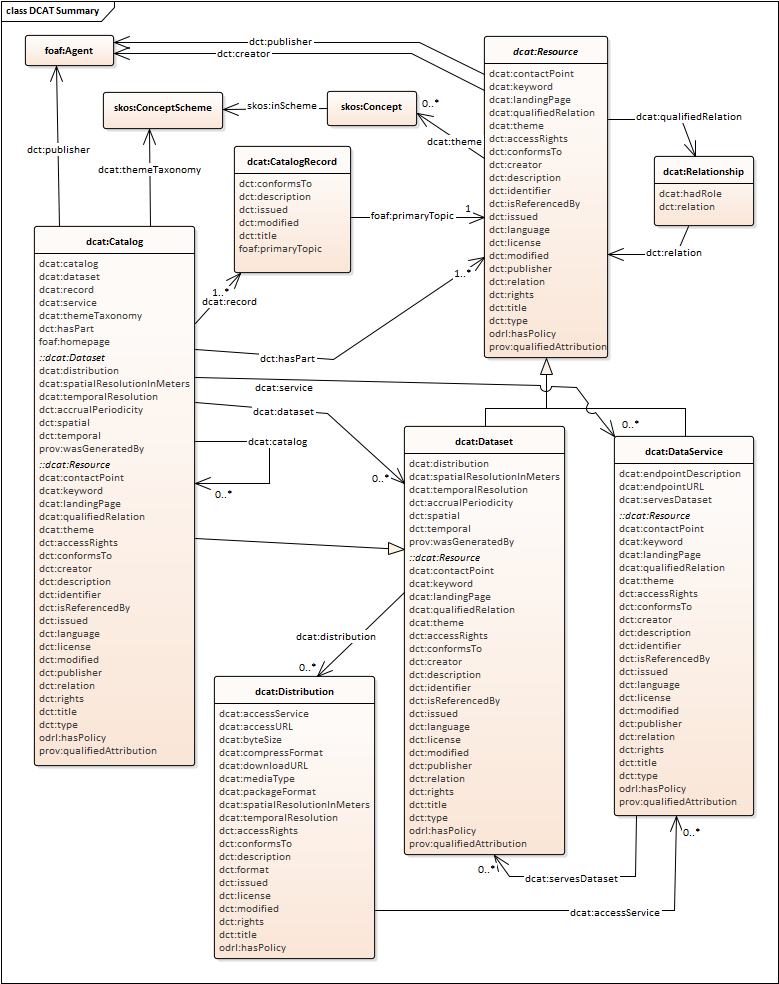
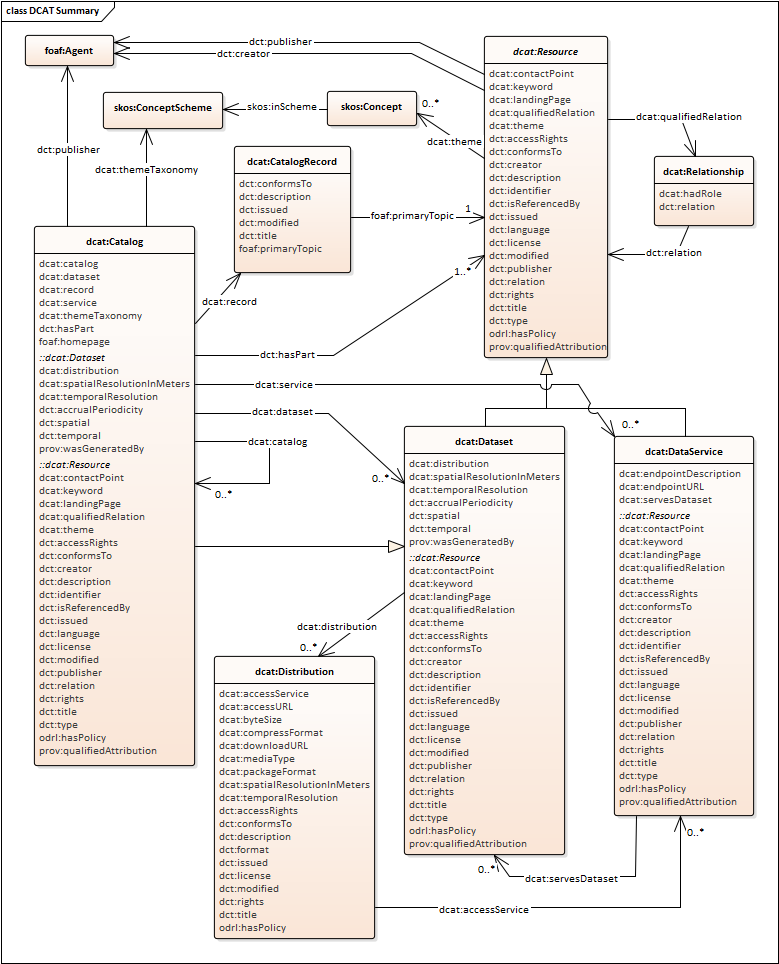
Fix cardinality Catalog->Record

diff --git a/index.html b/index.html
@@ -233,7 +233,7 @@
     <h3>DCAT scope</h3>
 
     <p>DCAT is an RDF vocabulary for representing data catalogs.
-      DCAT is based around eight main classes:</p>
+      DCAT is based around six main classes <a href="#UML_DCAT_All_Attr"></a>:</p>
     <ul>
         <li>
           <a href="#Class:Catalog"><code>dcat:Catalog</code></a> represents a catalog, which is a dataset in which each individual item is a metadata record describing some resource; the scope of <code>dcat:Catalog</code> is collections of metadata about <b>datasets</b> or <b>data services</b>.
@@ -256,14 +256,6 @@
           <a href="#Class:Data_Service"><code>dcat:DataService</code></a> represents a data service.
           A data service is a collection of operations accessible through an interface (<abbr title="Application Programming Interface">API</abbr>) that provide access to one or more datasets or data processing functions.
         </li>
-        <!--
-          <li>
-            <a href="#Class:DataTransformationService"><code>dcat:DataTransformationService</code></a> represents a service that can transform a dataset, e.g. spatial coordinate transformation; interpolation or resampling of a dataset.
-          </li>
-        <li>
-          <a href="#Class:Discovery_Service"><code>dcat:DiscoveryService</code></a> represents a description of a kind of data distribution service that provides access to one or more catalogs to support discovery functions.
-        </li>
-      -->
         <li>
           <a href="#Class:Catalog_Record"><code>dcat:CatalogRecord</code></a> represents a metadata item in the catalog, primarily concerning the registration information, such as who added the item and when.
         </li>
